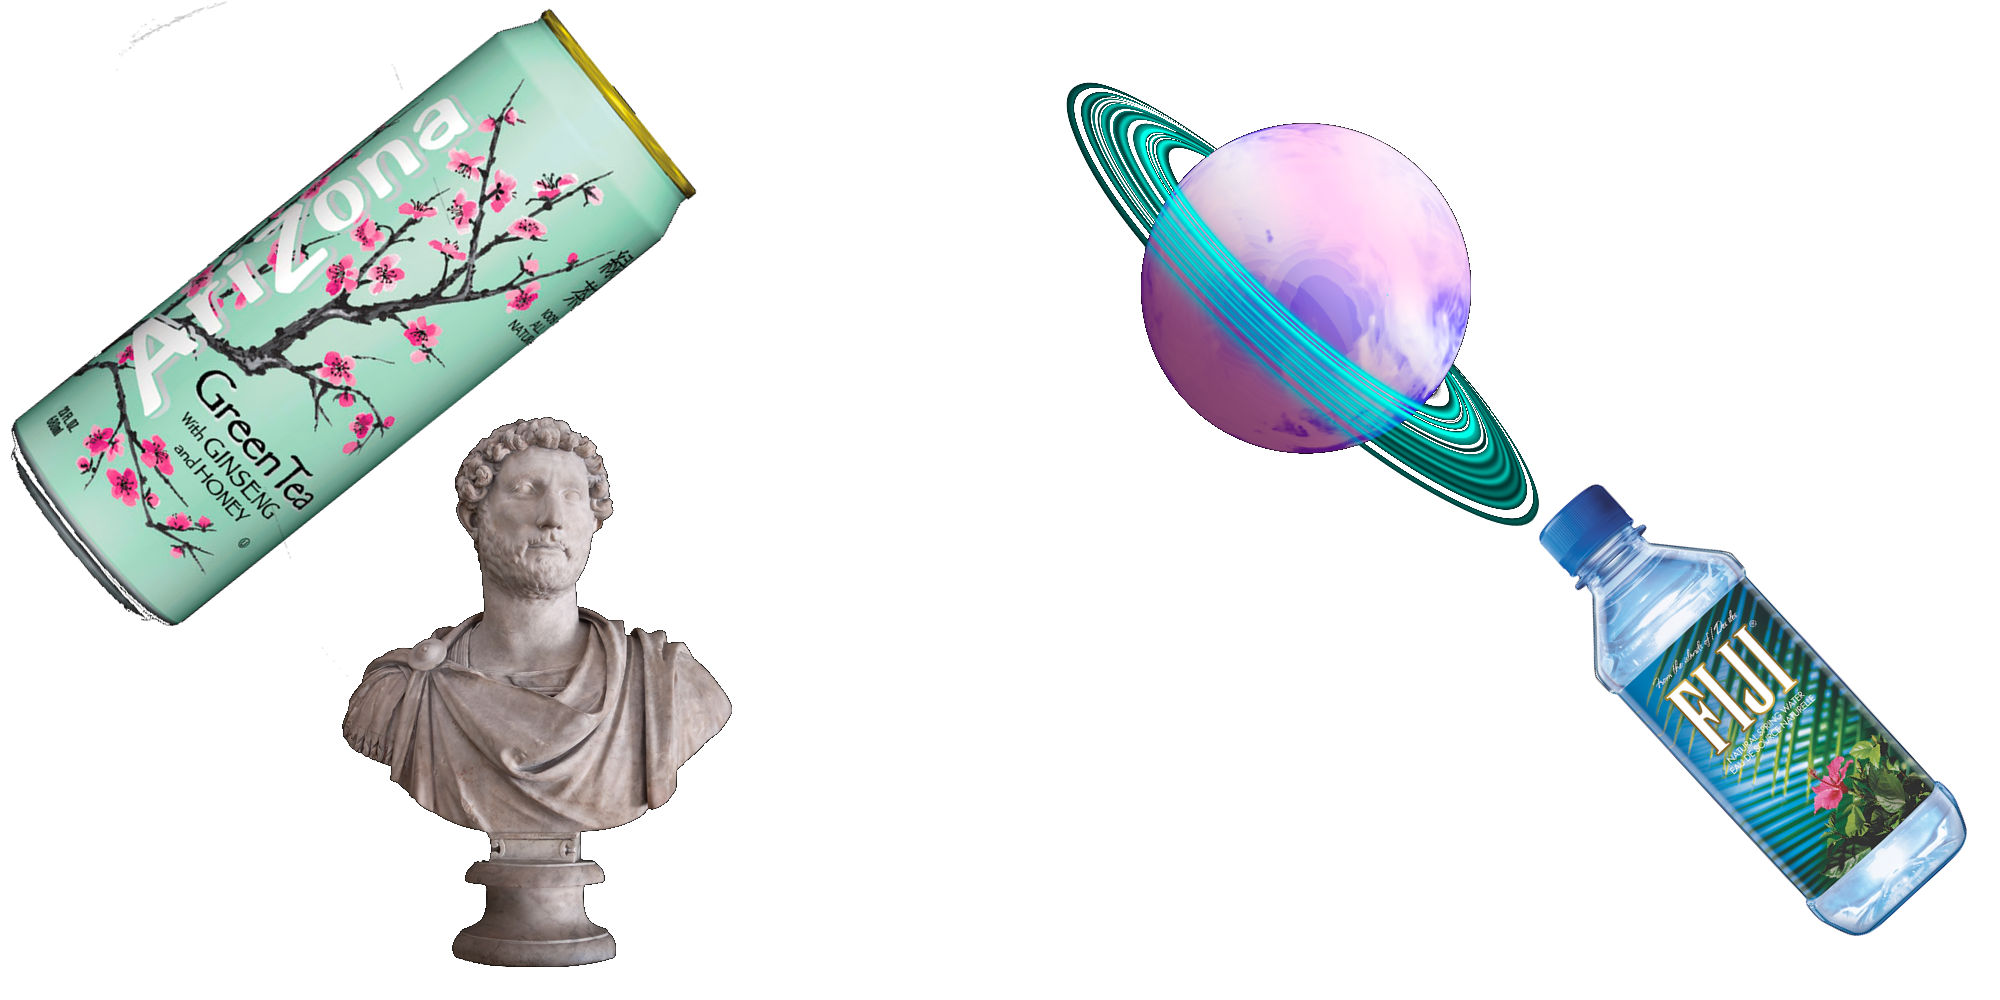
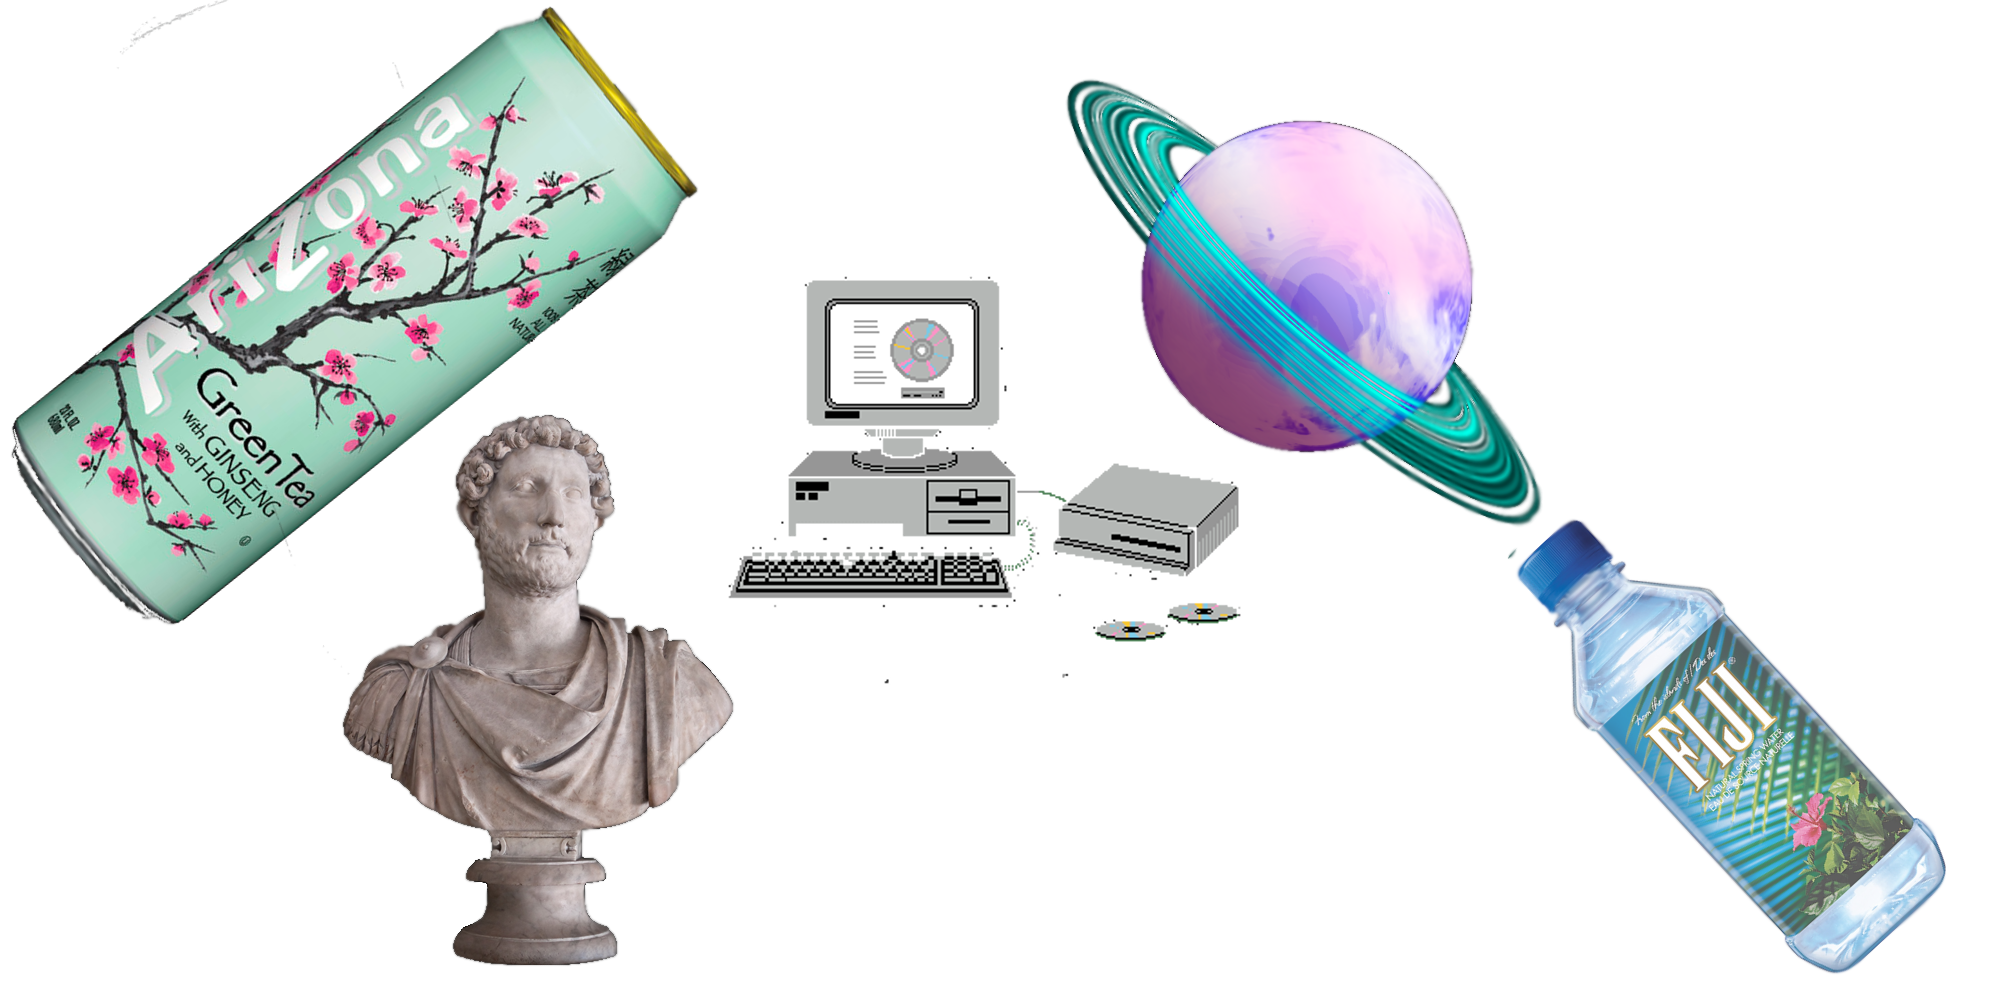
changed images a bit and music setup

diff --git a/assets/css/style.css b/assets/css/style.css
@@ -266,6 +266,18 @@ h4 {
 			1px 1px 0 #124B7A;
 }
 
+h5 {
+	background: none;
+	background-image: url(../images/bg.gif);
+	background-size: 100%;
+	color: #124B7A;
+	text-shadow:
+			-1px -1px 0 #91DBE2,  
+			1px -1px 0 #91DBE2,
+			-1px 1px 0 #91DBE2,
+			1px 1px 0 #91DBE2;
+	font-weight: bold;
+}
 /* Establishes sticky footer */
 footer {
 	background-color: #56B89C;

diff --git a/portfolio.html b/portfolio.html
@@ -44,6 +44,7 @@
 <!-- Big content box in middle	-->
 			<section class="content">
 			<h2>Portfolio</h2>
+			<h5>Play music for optimal a e s t h t i c s</h5>
 			<audio controls autoplay>
 				<source src="assets/audio/ocean_drive.mp3" type="audio/mpeg">
 			</audio>

diff --git a/index.html b/index.html
@@ -44,6 +44,7 @@
 	<div class="container">
 		<section class="content">
 			<h2>About Me</h2>
+			<h5>Play music for optimal a e s t h t i c s</h5>
 			<audio controls autoplay>
 				<source src="assets/audio/a_real_hero.mp3" type="audio/mpeg">
 			</audio>

diff --git a/contact.html b/contact.html
@@ -43,6 +43,7 @@
 	<div class="container">
 		<section class="content">
 			<h2>Contact</h2>
+			<h5>Play music for optimal a e s t h t i c s</h5>
 			<audio controls autoplay>
 				<source src="assets/audio/vice_point.mp3" type="audio/mpeg">
 			</audio>
